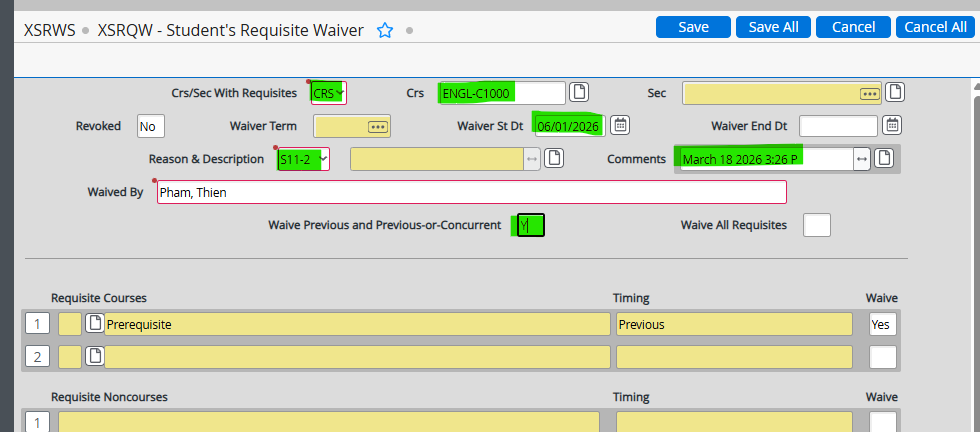
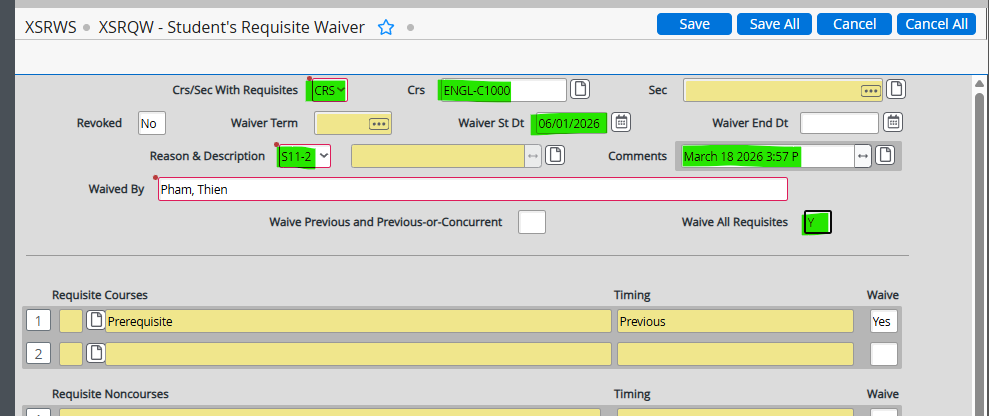
Update picture

diff --git a/mkdocs/docs/ari/petitions/prerequisite-challenge.md b/mkdocs/docs/ari/petitions/prerequisite-challenge.md
@@ -16,7 +16,7 @@
     | Waiver St Dt | Enter **mm/01/yy** of the term the student wants to take the course; this date must be **before the class starts** |
     | Reason & Description | Enter `S11-2` |
     | Comments | Detail in, timestamp, write "Prerequisite challenge approved", and click **Save** |
-    | Waive Previous and Previous-or-Concurrent | Enter `Y` | 
+    | Waive All Requisites | Enter `Y` | 
 
     ![Fill in the following fields](../../images/prereq-challenge1.png)
 
